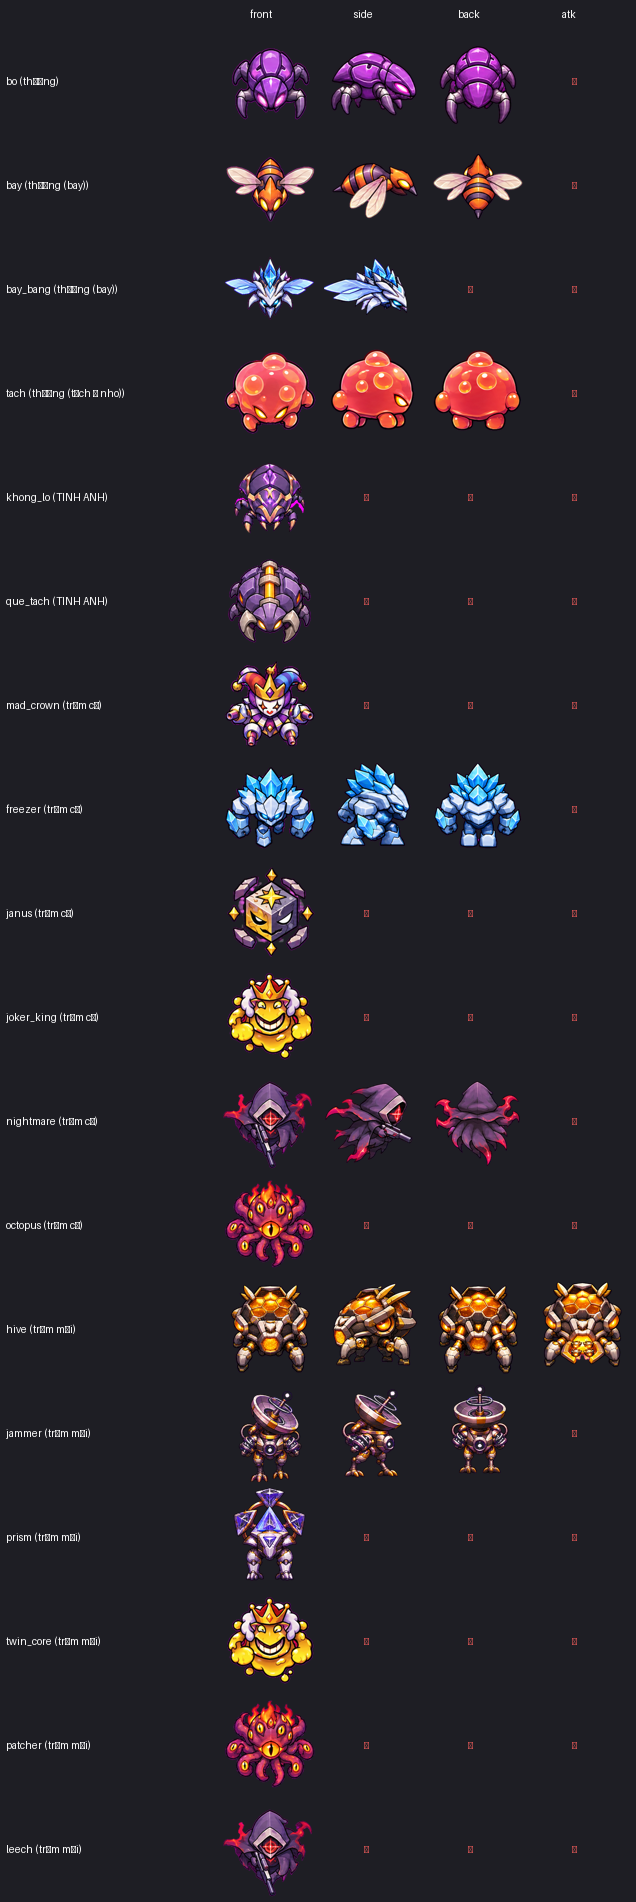
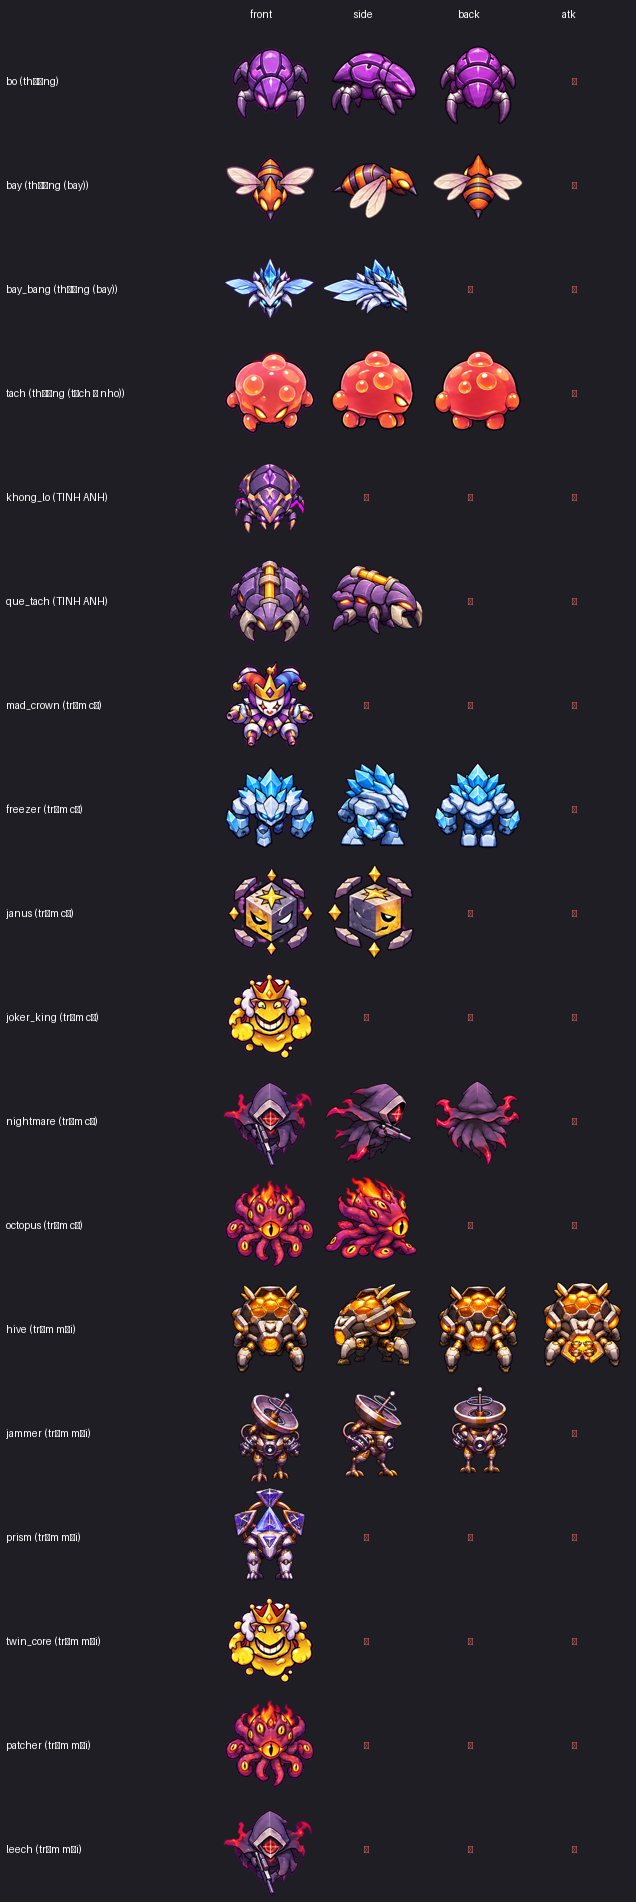
thap huong3: rap janus ngang, octopus ngang, que_tach (tinh anh) ngang (raw_p12)
Claude-Session: https://claude.ai/code/session_016VkJ26f22ubevy4EnREsEV

Changed region(s): [[0.5079, 0.6204, 0.6572, 0.6824], [0.5079, 0.2792, 0.6572, 0.3412], [0.5079, 0.4343, 0.6572, 0.4963]]

diff --git a/thap/js/quaianim.js b/thap/js/quaianim.js
@@ -14,7 +14,7 @@ const K8 = { bo: 0.755, bay: 0.82, bay_bang: 0.92, khong_lo: 1.46, tach: 0.85, q
   freezer: 1.06, janus: 1.02, joker_king: 1.07, mad_crown: 1.03, nightmare: 1.02, octopus: 1.09 }; // trùm: id = E.id
 const TRUM8 = new Set(['freezer', 'mad_crown', 'nightmare', 'octopus', 'janus', 'joker_king']);
 // HƯỚNG NHÌN (Pass 5): dải 8 khung NGANG (đi sang phải; trái = lật) / SAU (đi lên) đã có trong assets/ — tools/thap-huong-quai.py tự cập nhật dòng dưới
-const HUONG8 = new Set(['quai_bay_back', 'quai_bay_bang_side', 'quai_bay_side', 'quai_bo_back', 'quai_bo_side', 'quai_tach_back', 'quai_tach_side', 'trum_freezer_back', 'trum_freezer_side', 'trum_hive_back', 'trum_hive_side', 'trum_jammer_back', 'trum_jammer_side', 'trum_nightmare_back', 'trum_nightmare_side']); // vd 'quai_bo_side', 'trum_octopus_back'
+const HUONG8 = new Set(['quai_bay_back', 'quai_bay_bang_side', 'quai_bay_side', 'quai_bo_back', 'quai_bo_side', 'quai_que_tach_side', 'quai_tach_back', 'quai_tach_side', 'trum_freezer_back', 'trum_freezer_side', 'trum_hive_back', 'trum_hive_side', 'trum_jammer_back', 'trum_jammer_side', 'trum_janus_side', 'trum_nightmare_back', 'trum_nightmare_side', 'trum_octopus_side']); // vd 'quai_bo_side', 'trum_octopus_back'
 const HUONG_NGHIENG = 0.139; // dải chưa có: dùng dải TRƯỚC nghiêng ≤ 8° về phía đi
 const HUONG_HOA = 0.12;      // hoà 120 ms khi đổi hướng nhìn ở khúc rẽ
 

diff --git a/docs/demo-hop-tuong/tuvan/huong3/BANG.md b/docs/demo-hop-tuong/tuvan/huong3/BANG.md
@@ -9,13 +9,13 @@
 | bay_bang | thường (bay) | ✅ | ✅ | ⇋ | ⏳ ↔ | không có chiêu |
 | tach | thường (tách → nho) | ✅ | ✅ | ⇋ | ✅ | không có chiêu |
 | khong_lo | TINH ANH | ✅ | ⏳ ↔ | ↔ | ⏳ ↔ | không có chiêu |
-| que_tach | TINH ANH | ✅ | ⏳ ↔ | ↔ | ⏳ ↔ | không có chiêu |
+| que_tach | TINH ANH | ✅ | ✅ | ⇋ | ⏳ ↔ | không có chiêu |
 | mad_crown | trùm cũ | ✅ | ⏳ ↔ | ↔ | ⏳ ↔ | ✅ khung 3 (dải 4 cũ) |
 | freezer | trùm cũ | ✅ | ✅ | ⇋ | ✅ | ✅ khung 3 (dải 4 cũ) |
-| janus | trùm cũ | ✅ | ⏳ ↔ | ↔ | ⏳ ↔ | ✅ khung 3 (dải 4 cũ) |
+| janus | trùm cũ | ✅ | ✅ | ⇋ | ⏳ ↔ | ✅ khung 3 (dải 4 cũ) |
 | joker_king | trùm cũ | ✅ | ⏳ ↔ | ↔ | ⏳ ↔ | ✅ khung 3 (dải 4 cũ) |
 | nightmare | trùm cũ | ✅ | ✅ | ⇋ | ✅ | ✅ khung 3 (dải 4 cũ) |
-| octopus | trùm cũ | ✅ | ⏳ ↔ | ↔ | ⏳ ↔ | ✅ khung 3 (dải 4 cũ) |
+| octopus | trùm cũ | ✅ | ✅ | ⇋ | ⏳ ↔ | ✅ khung 3 (dải 4 cũ) |
 | hive | trùm mới | ✅ | ✅ | ⇋ | ✅ | ✅ dải 16 |
 | jammer | trùm mới | ✅ | ✅ | ⇋ | ✅ | ⏳ (q_p6 fx) |
 | prism | trùm mới | ✅ | ⏳ ↔ | ↔ | ⏳ ↔ | ⏳ (q_p6 fx) |
